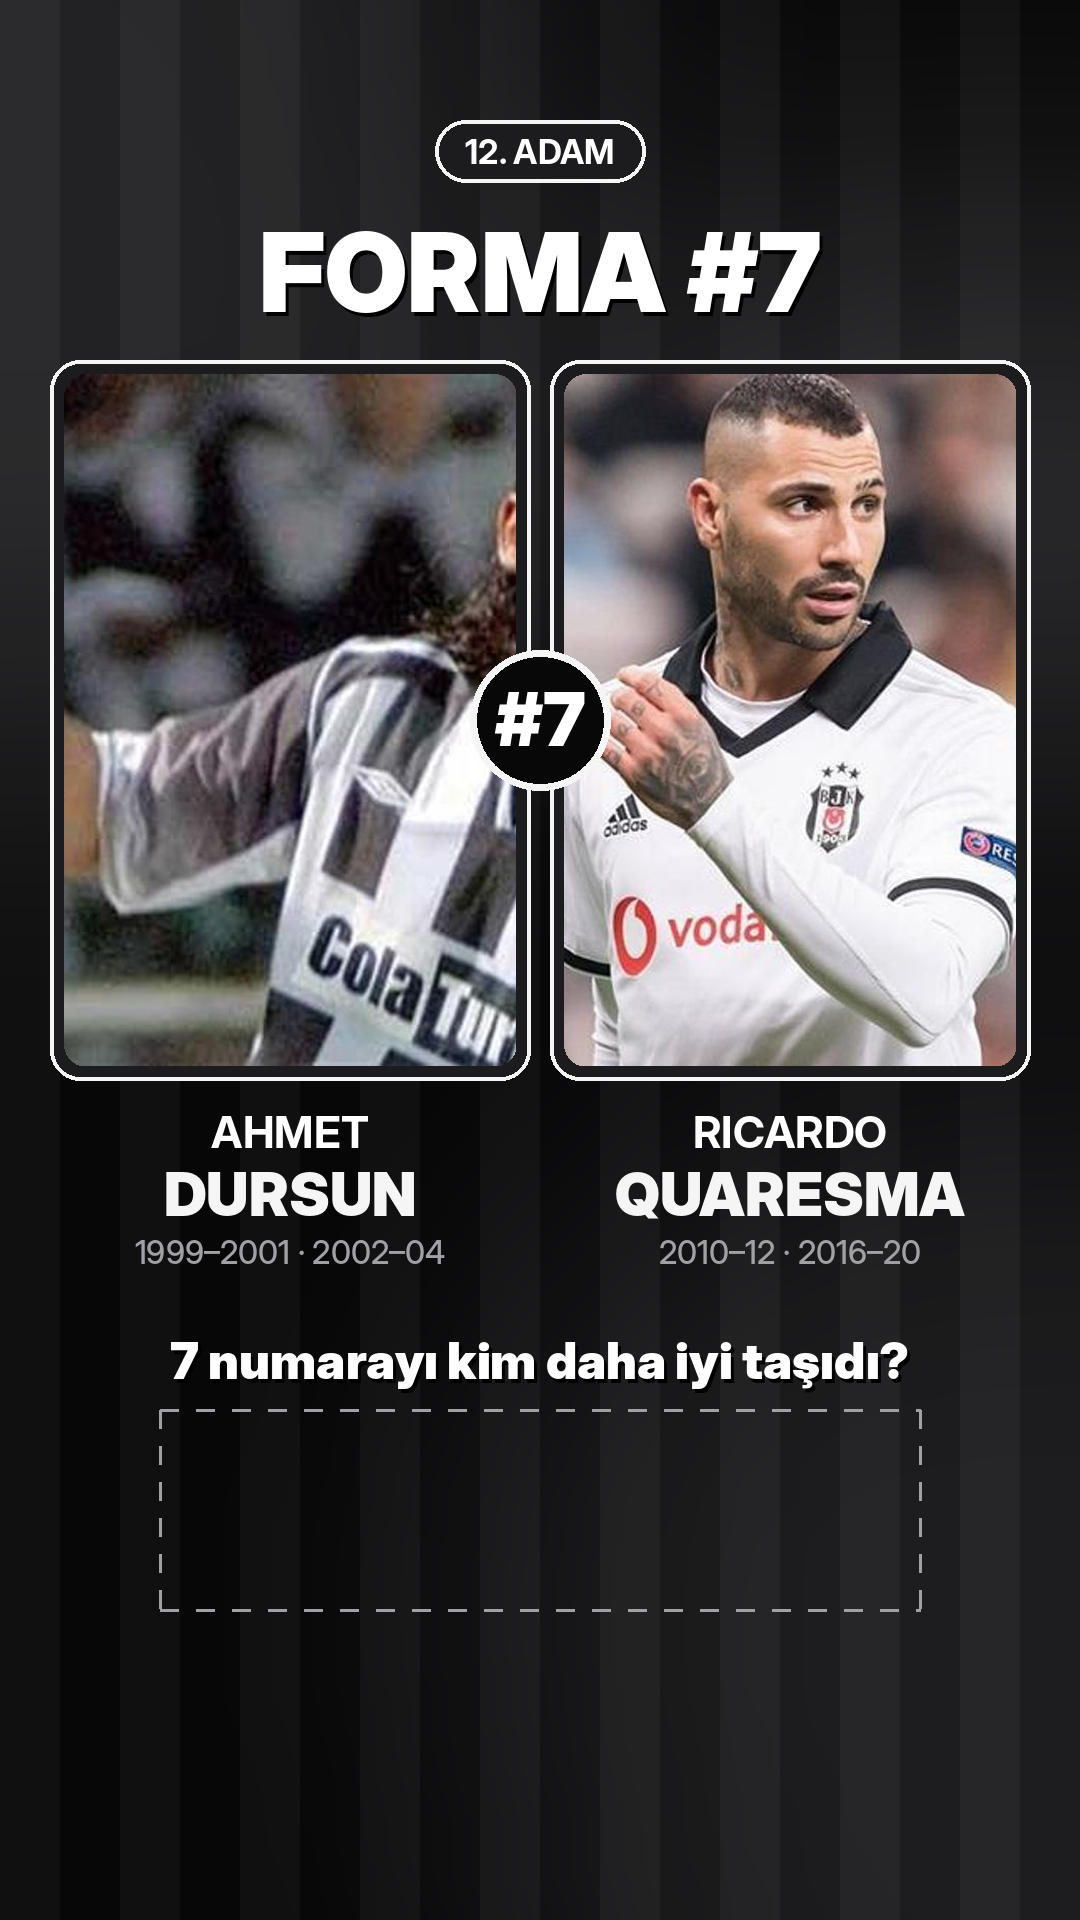
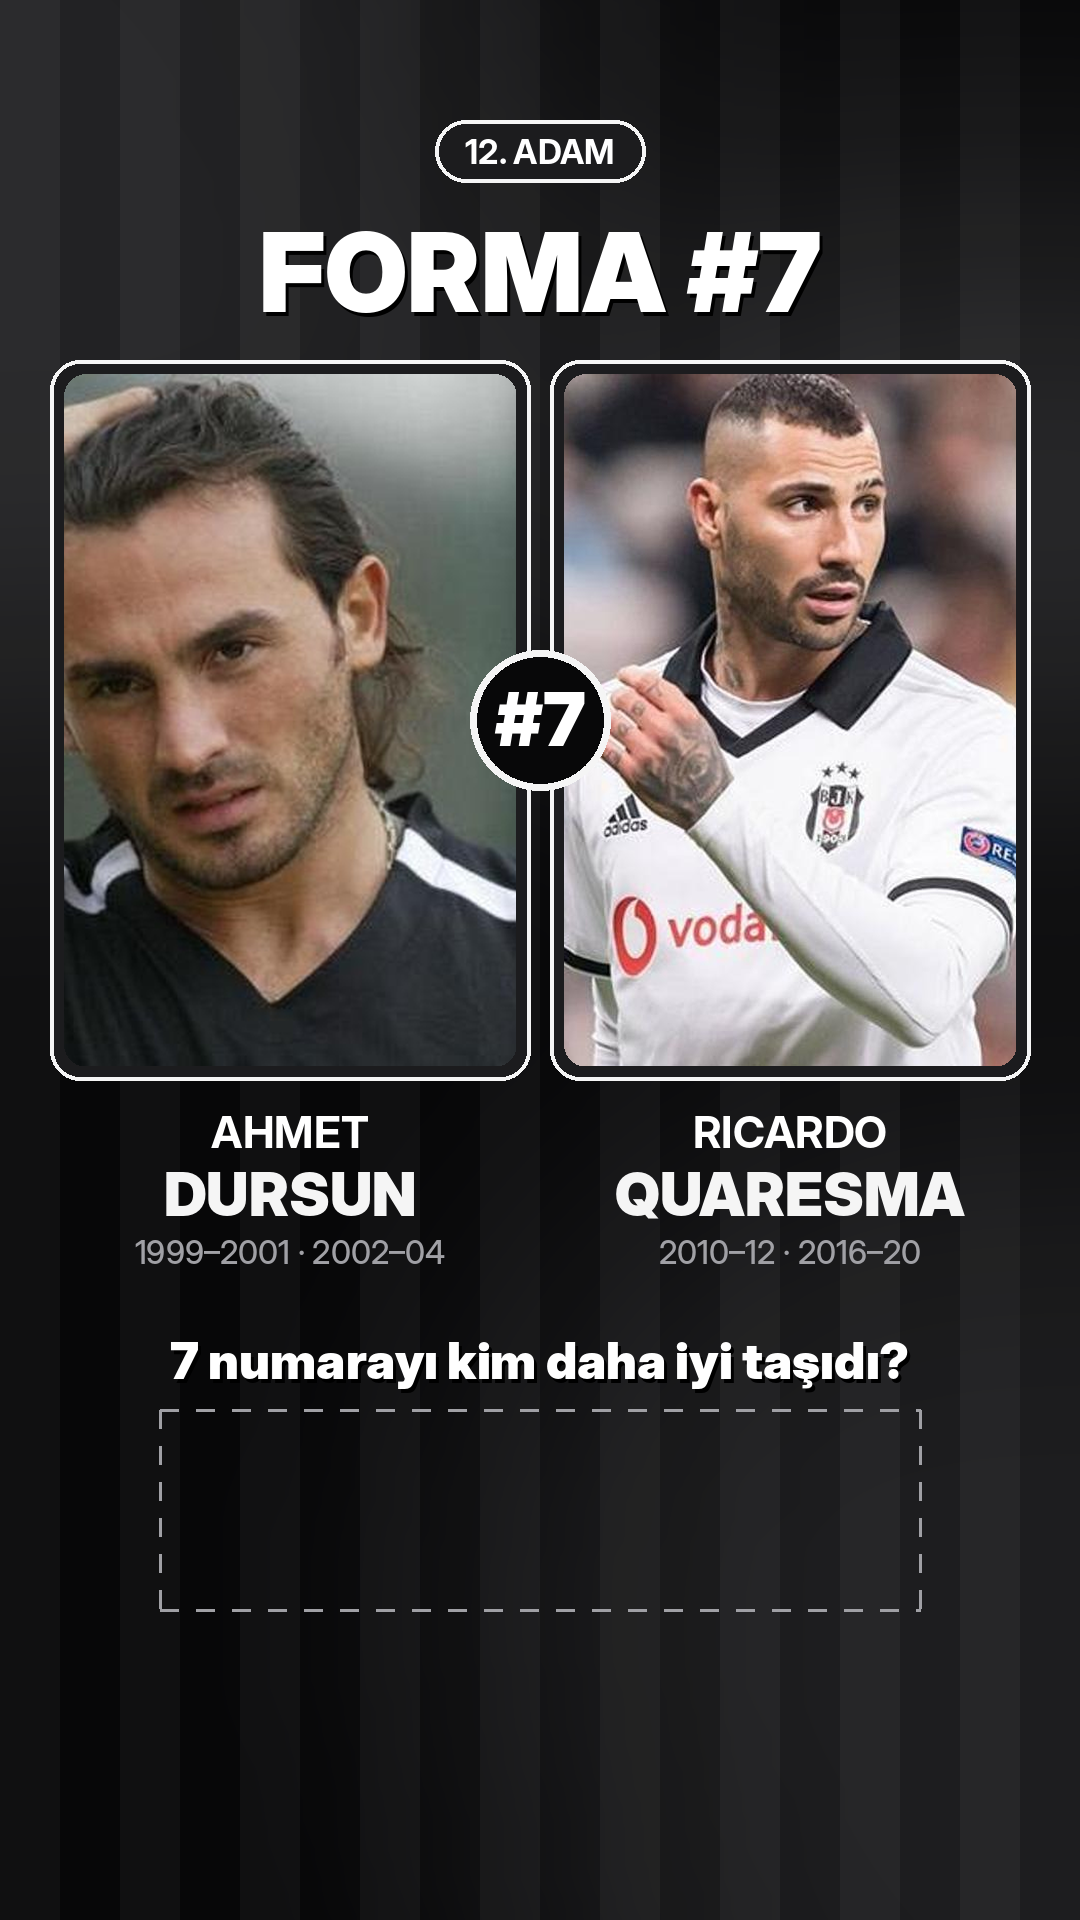
Story paketi: 12. Adam Ahmet Dursun fotoğrafı, soru kutusu, Toraman doğum günü
Claude-Session: https://claude.ai/code/session_01CXhmwmSLLmjX2zGUvR2cUn

Changed region(s): [[0.0611, 0.1875, 0.4889, 0.5625]]

diff --git a/grok/story/hafta-2026-11-14/PAKET.md b/grok/story/hafta-2026-11-14/PAKET.md
@@ -77,6 +77,7 @@
 - @onikinnciadam · sıra 2 · GÖRSEL: https://raw.githubusercontent.com/barantahayenen/yayin-dosyalari/main/grok/story/hafta-2026-11-14/2026-11-17/2026-11-17_onikinciadam_2.png · ÇIKARTMA: YOK
 - @onikinnciadam · sıra 3 · GÖRSEL: https://raw.githubusercontent.com/barantahayenen/yayin-dosyalari/main/grok/story/hafta-2026-11-14/2026-11-17/2026-11-17_onikinciadam_3.png · ÇIKARTMA: ANKET · SORU: 7 numarayı kim daha iyi taşıdı? · ŞIKLAR: Dursun / Quaresma
 - @onikinnciadam · sıra 4 · GÖRSEL: https://raw.githubusercontent.com/barantahayenen/yayin-dosyalari/main/grok/story/hafta-2026-11-14/2026-11-17/2026-11-17_onikinciadam_4.png · ÇIKARTMA: EMOJİ KAYDIRICI · SORU: Bu maçı hatırlıyor musun? · EMOJİ: 🦅
+- @onikinnciadam · sıra 5 · GÖRSEL: https://raw.githubusercontent.com/barantahayenen/yayin-dosyalari/main/grok/story/hafta-2026-11-14/2026-11-17/2026-11-17_onikinciadam_5.png · ÇIKARTMA: SORU KUTUSU · SORU: Gördüğün en güzel Beşiktaş golü hangisi?
 
 ## Çarşamba 18 Kasım (2026-11-18)
 
@@ -131,6 +132,7 @@
 - @onikinnciadam · sıra 3 · GÖRSEL: https://raw.githubusercontent.com/barantahayenen/yayin-dosyalari/main/grok/story/hafta-2026-11-14/2026-11-20/2026-11-20_onikinciadam_3.png · ÇIKARTMA: ANKET · SORU: Hangisi daha iyi oyun kurucuydu? · ŞIKLAR: Delgado / 
 - @onikinnciadam · sıra 4 · GÖRSEL: https://raw.githubusercontent.com/barantahayenen/yayin-dosyalari/main/grok/story/hafta-2026-11-14/2026-11-20/2026-11-20_onikinciadam_4.png · ÇIKARTMA: EMOJİ KAYDIRICI · SORU: Bu maçı hatırlıyor musun? · EMOJİ: 🦅
 - @onikinnciadam · sıra 5 · GÖRSEL: https://raw.githubusercontent.com/barantahayenen/yayin-dosyalari/main/grok/story/hafta-2026-11-14/2026-11-20/2026-11-20_onikinciadam_5.png · ÇIKARTMA: EMOJİ KAYDIRICI · SORU: Bu maçı hatırlıyor musun? · EMOJİ: 🦅
+- @onikinnciadam · sıra 6 · GÖRSEL: https://raw.githubusercontent.com/barantahayenen/yayin-dosyalari/main/grok/story/hafta-2026-11-14/2026-11-20/2026-11-20_onikinciadam_6.png · ÇIKARTMA: SORU KUTUSU · SORU: İbrahim Toraman denince aklına ne geliyor?
 
 ## Cumartesi 21 Kasım (2026-11-21)
 
